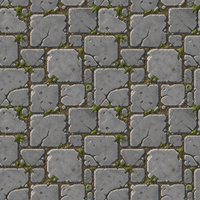
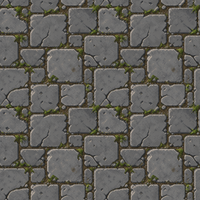
1.0.53: яркость тем (adjust_theme.py, castle 15%), карта 2/1, версия 1.0.53

diff --git a/core/src/main/kotlin/com/catsandmouses/Constants.kt b/core/src/main/kotlin/com/catsandmouses/Constants.kt
@@ -22,7 +22,7 @@ object Constants {
     const val MAZE_HEIGHT = MAZE_ROWS * CELL_SIZE
     const val MAZE_OFFSET_X = (WORLD_WIDTH - MAZE_WIDTH) / 2f
     const val MAZE_OFFSET_Y = 0f
-    const val VERSION = "1.0.52"
+    const val VERSION = "1.0.53"
 
     // Preferences
     const val PREFS_NAME = "catsandmouses"

diff --git a/tools/adjust_theme.py b/tools/adjust_theme.py
@@ -1,0 +1,88 @@
+# Подгонка яркости темы CATS AND MOUSES (dev-only).
+#
+# Читает RAW темы (themes/<id>/raw/background.png, raw/wall_autotile.png),
+# применяет «мягкую» коррекцию яркости и пишет игровые файлы в themes/<id>/:
+#   background.png      — RGB × backgroundShade (затемнение), 200x200, LANCZOS;
+#   wall_autotile.png   — c' = c + (255 - c) × wallLighten (осветление),
+#                         160x160, LANCZOS, alpha без изменений.
+#
+# Значения берутся из theme.json (backgroundShade, wallLighten). Если поля нет —
+# используется аргумент CLI, иначе дефолт (0.85 / 0.15, т.е. 15%).
+# Оригиналы raw/ не трогаются. Превью view/ строится отдельно: tools/make_view.py.
+#
+# Запуск: python tools/adjust_theme.py <theme_id> [--shade 0.85] [--lighten 0.15]
+# Зависимость: Pillow
+
+import argparse
+import json
+import os
+
+from PIL import Image
+
+ROOT = os.path.normpath(os.path.join(os.path.dirname(os.path.abspath(__file__)), ".."))
+THEMES = os.path.join(ROOT, "assets", "themes")
+
+BG_OUT = (200, 200)
+WALL_OUT = (160, 160)
+DEFAULT_SHADE = 0.85
+DEFAULT_LIGHTEN = 0.15
+
+
+def shade_background(img, factor):
+    rgb = img.convert("RGB")
+    r, g, b = rgb.split()
+    mul = lambda v: int(round(v * factor))
+    return Image.merge("RGB", (r.point(mul), g.point(mul), b.point(mul)))
+
+
+def lighten_wall(img, amount):
+    rgba = img.convert("RGBA")
+    r, g, b, a = rgba.split()
+    boost = lambda v: min(255, int(round(v + (255 - v) * amount)))
+    return Image.merge("RGBA", (r.point(boost), g.point(boost), b.point(boost), a))
+
+
+def theme_values(theme_dir, args):
+    path = os.path.join(theme_dir, "theme.json")
+    data = {}
+    if os.path.exists(path):
+        with open(path, encoding="utf-8") as f:
+            data = json.load(f)
+    shade = args.shade if args.shade is not None else data.get("backgroundShade", DEFAULT_SHADE)
+    lighten = args.lighten if args.lighten is not None else data.get("wallLighten", DEFAULT_LIGHTEN)
+    return float(shade), float(lighten)
+
+
+def main():
+    ap = argparse.ArgumentParser(description="Яркость темы: raw -> игровые файлы")
+    ap.add_argument("theme", help="id темы (папка assets/themes/<id>)")
+    ap.add_argument("--shade", type=float, default=None, help="множитель RGB фона (напр. 0.85)")
+    ap.add_argument("--lighten", type=float, default=None, help="доля осветления стен (напр. 0.15)")
+    args = ap.parse_args()
+
+    theme_dir = os.path.join(THEMES, args.theme)
+    raw_dir = os.path.join(theme_dir, "raw")
+    if not os.path.isdir(raw_dir):
+        raise SystemExit(f"нет raw/: {raw_dir}")
+
+    shade, lighten = theme_values(theme_dir, args)
+
+    bg_raw = os.path.join(raw_dir, "background.png")
+    wall_raw = os.path.join(raw_dir, "wall_autotile.png")
+
+    bg = Image.open(bg_raw)
+    bg = shade_background(bg, shade).resize(BG_OUT, Image.LANCZOS)
+    bg.save(os.path.join(theme_dir, "background.png"))
+    print(f"background.png: RGB x{shade} -> {BG_OUT[0]}x{BG_OUT[1]}")
+
+    wall = Image.open(wall_raw)
+    wall = lighten_wall(wall, lighten).resize(WALL_OUT, Image.LANCZOS)
+    wall.save(os.path.join(theme_dir, "wall_autotile.png"))
+    print(f"wall_autotile.png: lighten {lighten} -> {WALL_OUT[0]}x{WALL_OUT[1]}")
+
+    print(f"[{args.theme}] backgroundShade={shade}, wallLighten={lighten}")
+    print("Дальше: python tools/make_view.py")
+
+
+if __name__ == "__main__":
+    main()

diff --git a/.opencode/skills/generate-theme/SKILL.md b/.opencode/skills/generate-theme/SKILL.md
@@ -106,17 +106,25 @@ elseif ($b[0] -eq 0xFF -and $b[1] -eq 0xD8) { "JPEG" }
 прозрачность с мягкой кромкой) и **сообщить пользователю** («Файл X был JPEG →
 конвертирован в PNG»). Разрешение спрашивать не нужно.
 
-## 3. Масштабирование (dev-скрипт, Pillow)
+## 3. Масштабирование + яркость (`tools/adjust_theme.py`)
 
-Игра использует `CELL_SIZE = 40`, поэтому тайл атласа 32 → **40**:
+Игра использует `CELL_SIZE = 40`, поэтому тайл атласа 32 → **40**. Скрипт берёт
+RAW, применяет коррекцию яркости и пишет игровые файлы:
 
 ```powershell
-python -c "from PIL import Image; t=Image.open(r'assets/themes/<id>/raw/wall_autotile.png').convert('RGBA').resize((160,160), Image.LANCZOS); t.save(r'assets/themes/<id>/wall_autotile.png')"
-python -c "from PIL import Image; b=Image.open(r'assets/themes/<id>/raw/background.png').convert('RGB').resize((200,200), Image.LANCZOS); b.save(r'assets/themes/<id>/background.png')"
+python tools/adjust_theme.py <id>            # значения из theme.json, иначе 0.85 / 0.15
+python tools/adjust_theme.py <id> --shade 0.85 --lighten 0.15   # явные значения
 ```
 
-- Тайл: **128×128 → 160×160** (4×4 по 40×40), LANCZOS, RGBA.
-- Фон: RAW → **200×200**, LANCZOS, RGB (непрозрачный), как у `grass`.
+- **Фон**: RAW → RGB × `backgroundShade` (затемнение) → **200×200**, LANCZOS, RGB.
+- **Стены**: `c' = c + (255 − c) × wallLighten` (мягкое осветление, alpha без
+  изменений) → **160×160** (4×4 по 40×40), LANCZOS, RGBA.
+- Дефолт — **15%**: `backgroundShade = 0.85`, `wallLighten = 0.15`. Значения
+  хранятся в `theme.json` темы (см. §5) и читаются скриптом при перегенерации,
+  поэтому исходники всегда воспроизводимы из `raw/`. Оригиналы `raw/` не трогаются.
+
+> Аффинная коррекция и LANCZOS-масштаб линейны, поэтому порядок (сначала яркость,
+> потом ресайз или наоборот) на результат не влияет — скрипт делает яркость → ресайз.
 
 ## 4. Превью `view/`
 
@@ -140,12 +148,19 @@ python tools/make_view.py
   "atlasRows": 4,
   "extrasCountMin": 0,
   "extrasCountMax": 0,
-  "background": "background.png"
+  "background": "background.png",
+  "backgroundShade": 0.85,
+  "wallLighten": 0.15
 }
 ```
 
 `wallAutotile` включает dual-grid рендер; `wallFiles`/`extras*` не используются
 (оставлены как fallback для тем без autotile).
+
+`backgroundShade` / `wallLighten` — рецепт яркости (плоские поля, игра их
+игнорирует, `ThemeLoader` читает только известные ключи). Хранят значения,
+применённые `tools/adjust_theme.py`, чтобы тему можно было перегенерировать из
+`raw/` без догадок. Дефолт — `0.85` / `0.15` (15%).
 
 ## 6. Регистрация в `assets/themes/themes.json`
 

diff --git a/GAME.md b/GAME.md
@@ -97,7 +97,7 @@ CATS AND MOUSES/
 │   ├── themes/                 # Темы локаций
 │   │   ├── themes.json         # Индекс тем + системная тема (system)
 │   │   └── grass/              # Тема «Трава и кусты»
-    │   │       ├── theme.json      # Конфиг темы (wallFiles, extrasCountMin/Max, background)
+    │   │       ├── theme.json      # Конфиг темы (wallFiles, extrasCountMin/Max, background, backgroundShade/wallLighten)
     │   │       ├── wall_0.png      # Основной спрайт стены (куст), 88×88
     │   │       ├── wall_1..3.png   # Допы стен: цветущий куст, камень, дерево
     │   │       ├── background.png  # Фоновый спрайт (трава), 200×200, непрозрачный, tileable
@@ -498,6 +498,7 @@ Invoke-RestMethod -Uri http://localhost:8080/input -Method POST -ContentType "ap
     - ✅ Тема «Мох и древние деревья» (`moss`, лесной сказочный лес): autotile стволов древних деревьев во мху (`d90af37d-…`) + бесшовный фон мшистой почвы (`7dc7e51f-…`); переключение через `--theme moss`.
     - ✅ Тема «Затерянное болото» (`swamp`, болотный/затерянный): autotile камышей и мшистых скал (`47c5aecd-…`) + бесшовный фон мелкой мутной воды (`26a9a88a-…`); переключение через `--theme swamp`.
     - ✅ Тема «Космическая станция» (`space`, sci-fi): autotile металлических панелей корпуса (`6c620a3f-…`) + бесшовный фон металлического пола отсека (`b5107c09-…`); переключение через `--theme space`.
+    - ✅ Яркость тем: `tools/adjust_theme.py` применяет к RAW мягкую коррекцию (фон RGB × `backgroundShade`, стены `c' = c + (255−c)×wallLighten`, дефолт 15%) и пишет игровые файлы; значения хранятся в `theme.json` для воспроизводимой перегенерации из `raw/`. Тема «Старый замок» перегенерирована на 15% (`backgroundShade: 0.85`, `wallLighten: 0.15`), после — `tools/make_view.py`.
 8. ✅ **Этап 12 — Применение тем и миры** (детали — `PLAN.md`): системная тема (`system`=grass) для заставки/меню/оверлеев; тема на мир через `maps/<мир>/theme.json`; карты 32×16; авто-подсчёт уровней (Gradle `maps.json`); генератор `tools/gen_levels.py` (6 миров + финал «КОНЕЦ») и dev-превью `tools/map_preview.py`.
   8. ✅ **Этап 8 — Меню и HUD**: верхняя плашка статистики/рекордов/версии; главное меню; экраны Game Over/Win; пауза.
 9. **Этап 9 — Звук**: SFX и фоновая музыка.

diff --git a/PLAN.md b/PLAN.md
@@ -11,7 +11,7 @@
 Также выполнен **Этап 14 — Desktop-редактор карт** (`--editor`, версия 1.0.51; вне RuStore/APK).
 Предыдущее: Этап 12 — Применение тем + миры + карта 32×16 + превью карт (готово);
 Этап 7 — Темы (7 тем: `grass`, `castle`, `ice`, `desert`, `moss`, `swamp`, `space`).
-Обновлено: 2026-09-20.
+Обновлено: 2026-09-21.
 
 ## Цель
 - Системная тема (`grass`) для заставки, меню и всех оверлеев.
@@ -156,6 +156,7 @@
 Открытые вопросы: хранить жизни между картами или сбрасывать; стартовое число жизней; формат HUD (иконка + число); поведение экрана «Мышка попалась!».
 
 ## История
+- 2026-09-21 — яркость тем: `tools/adjust_theme.py` (RAW → фон RGB × `backgroundShade`, стены `c + (255−c)×wallLighten`, дефолт 15%, затем LANCZOS-масштаб → игровые файлы); значения хранятся в `theme.json` (`backgroundShade`/`wallLighten`) для воспроизводимой перегенерации из `raw/`. Тема `castle` перегенерирована на 15%, `view/` обновлён; навык `generate-theme` дополнен.
 - 2026-09-21 — все запуски Desktop сделаны неблокирующими: хелпер `registerDetachedRun` + задачи `lwjgl3:runBg` (игра, аргументы `-PgameArgs="..."`), `runEditor` (`--editor`), `runDistBg` (дистрибутив). Стартуют отдельный процесс, задача завершается сразу; логи в `lwjgl3/build/{run-logs,editor-logs}/`. Проверено: закрытие окна корректно завершает процесс. Правило «не ждать в фоне» закреплено в `AGENTS.md`, `RUN.md`, навыке `run-game`, `GAME.md (п. 85)`.
 - 2026-09-20 — правки редактора: выход из playtest по ESC возвращает в редактор (dispose+`setScreen` отложены через `Gdx.app.postRunnable`), сетка вкл/выкл по клавише **G**.
 - 2026-09-20 — Desktop-редактор карт (`--editor`): `MapEditor`/`EditorFiles`/`MazeRenderer` (core), `EditorScreen` (lwjgl3), playtest через `GameScreen`, сохранение в `assets/maps`; +29 тестов (171); версия 1.0.51; документы (`RUN.md`, `run-game`, `AGENTS.md`).

diff --git a/CHANGELOG.md b/CHANGELOG.md
@@ -2,6 +2,19 @@
 
 Все заметные изменения проекта **CATS AND MOUSES**. Формат — [Keep a Changelog](https://keepachangelog.com/ru/1.1.0/), версионирование — [SemVer](https://semver.org/lang/ru/).
 
+## [1.0.53] — 2026-09-21
+
+### Добавлено
+- **Яркость тем**: dev-скрипт `tools/adjust_theme.py` — читает RAW темы, применяет мягкую коррекцию яркости (фон RGB × `backgroundShade`, стены `c' = c + (255−c)×wallLighten`, alpha без изменений), масштабирует LANCZOS в игровой размер (200×200 / 160×160) и пишет `background.png` / `wall_autotile.png`. Значения хранятся в `theme.json` (`backgroundShade`/`wallLighten`; дефолт 15% — `0.85`/`0.15`) для воспроизводимой перегенерации из `raw/`. Оригиналы `raw/` не трогаются.
+
+### Изменено
+- Тема «Старый замок» (`castle`) перегенерирована из RAW с коррекцией 15% (фон темнее, стены мягко светлее); `view/` обновлён.
+- Карта `2/1` (мир «Старый замок») обновлена в редакторе карт.
+- Версия **1.0.53** (`Constants.VERSION`, `android` versionCode 53 / versionName 1.0.53).
+
+### Документация
+- Навык `generate-theme` дополнен разделом о яркости (`adjust_theme.py`) и полями `theme.json`; обновлены `GAME.md`, `PLAN.md`.
+
 ## [1.0.52] — 2026-09-21
 
 ### Добавлено
